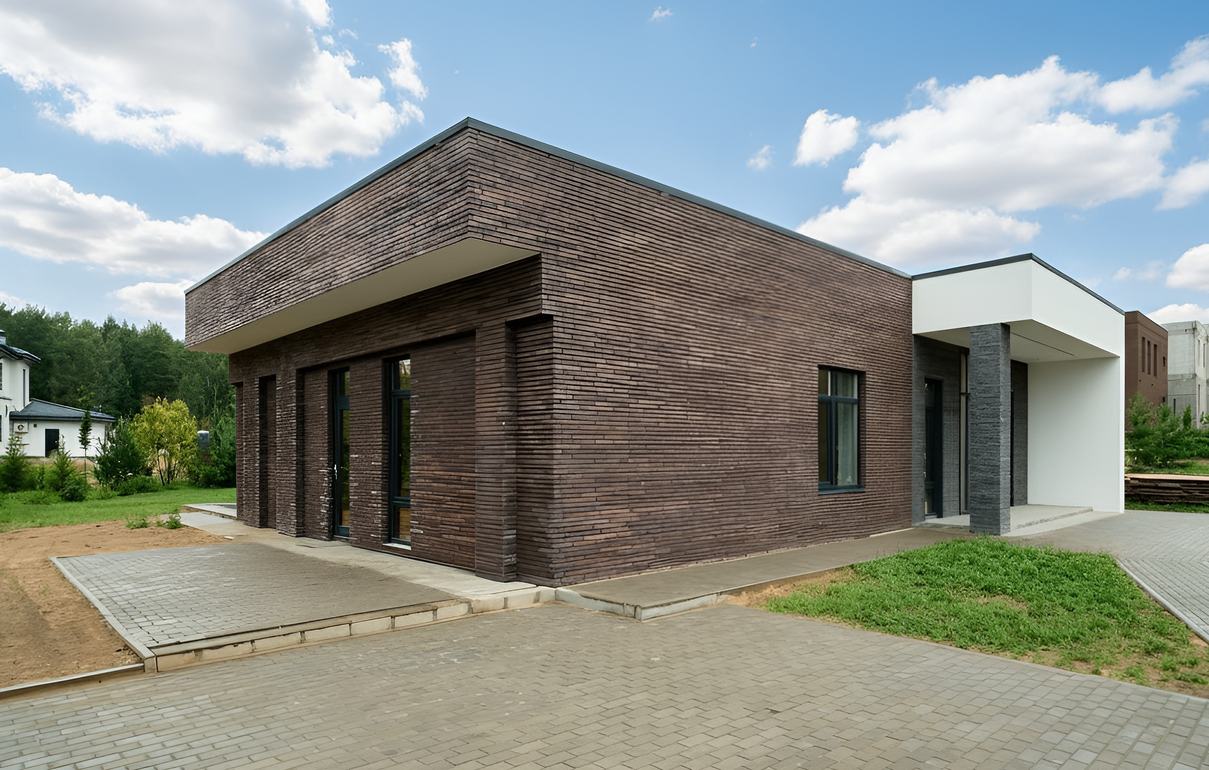
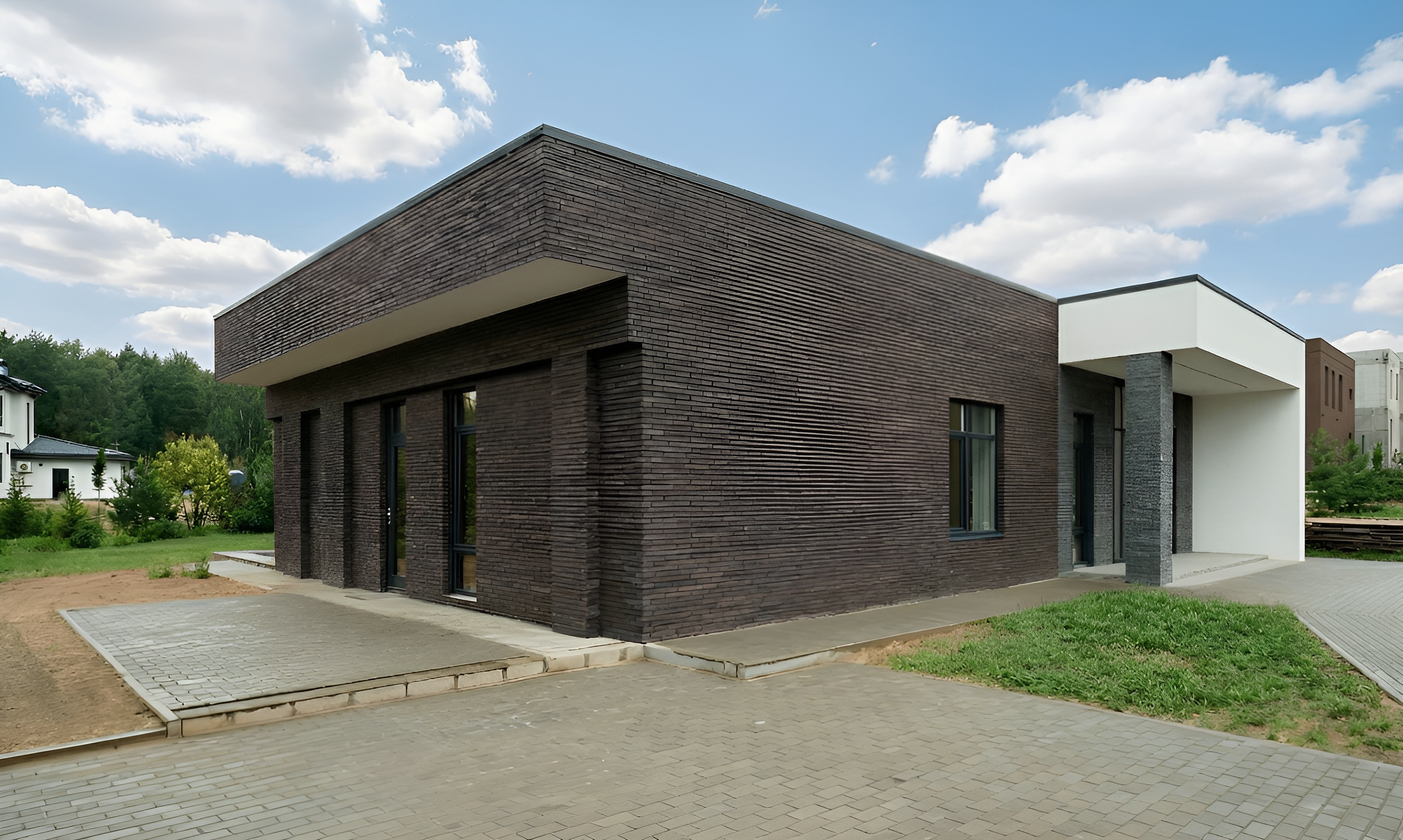
Change photo, add background to price

diff --git a/index.js b/index.js
@@ -82,11 +82,11 @@ fabWhatsApp.addEventListener("click", () => {
 	closeFabMenu();
 });
 
-// Telegram
-fabTelegram.addEventListener("click", () => {
-	openTelegram();
-	closeFabMenu();
-});
+// // Telegram
+// fabTelegram.addEventListener("click", () => {
+// 	openTelegram();
+// 	closeFabMenu();
+// });
 
 // Close menu when clicking outside
 const fabContainer = document.querySelector(".fab-container");

diff --git a/style.css b/style.css
@@ -337,6 +337,14 @@ nav {
 	font-weight: 500;
 }
 
+.hero-content-item .hero-content-item-price-title {
+	background-color: rgba(255, 255, 255, 0.7);
+	padding: 0.3rem 0.5rem;
+	border-radius: 6px;
+	line-height: 1;
+	color: var(--text-color);
+}
+
 .section {
 	padding: 6rem 6rem 0 6rem;
 	color: var(--text-color);

diff --git a/index.html b/index.html
@@ -183,7 +183,7 @@
 							</div>
 							<div class="hero-content-item">
 								<p>СТОИМОСТЬ</p>
-								<h2>65 000 000 руб.</h2>
+								<h2 class="hero-content-item-price-title">65 000 000 руб.</h2>
 							</div>
 						</div>
 					</div>
